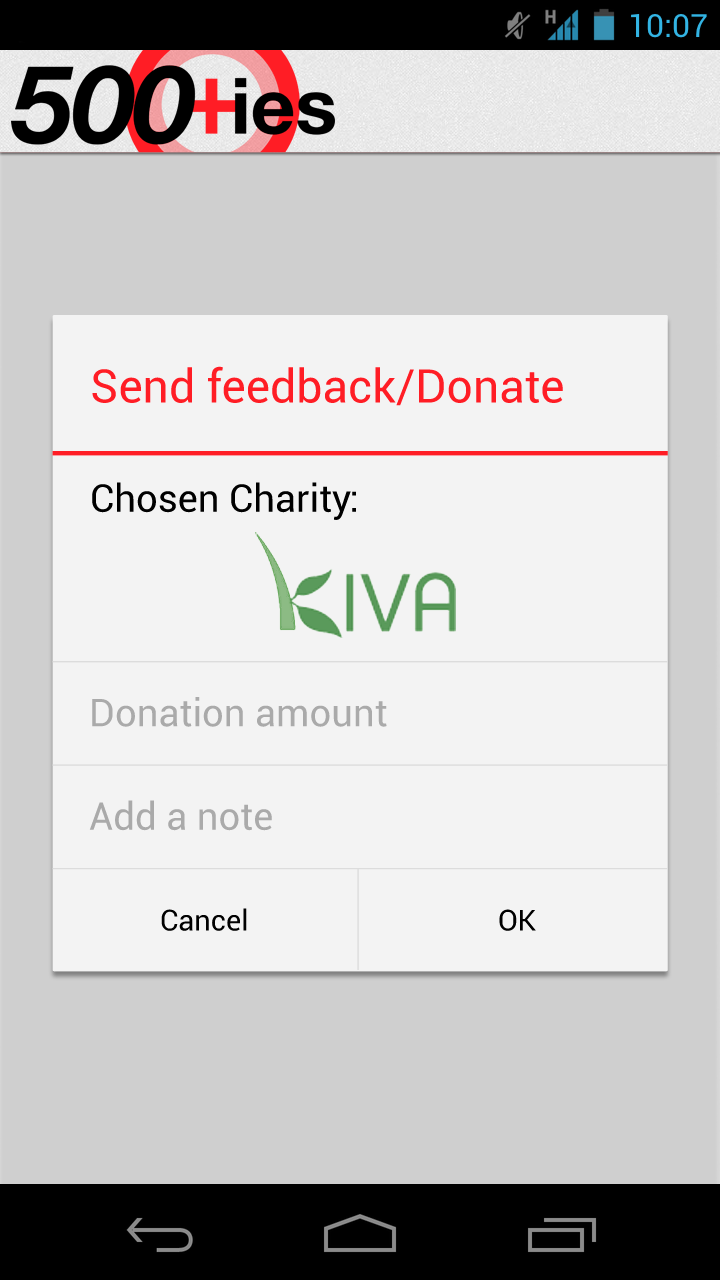
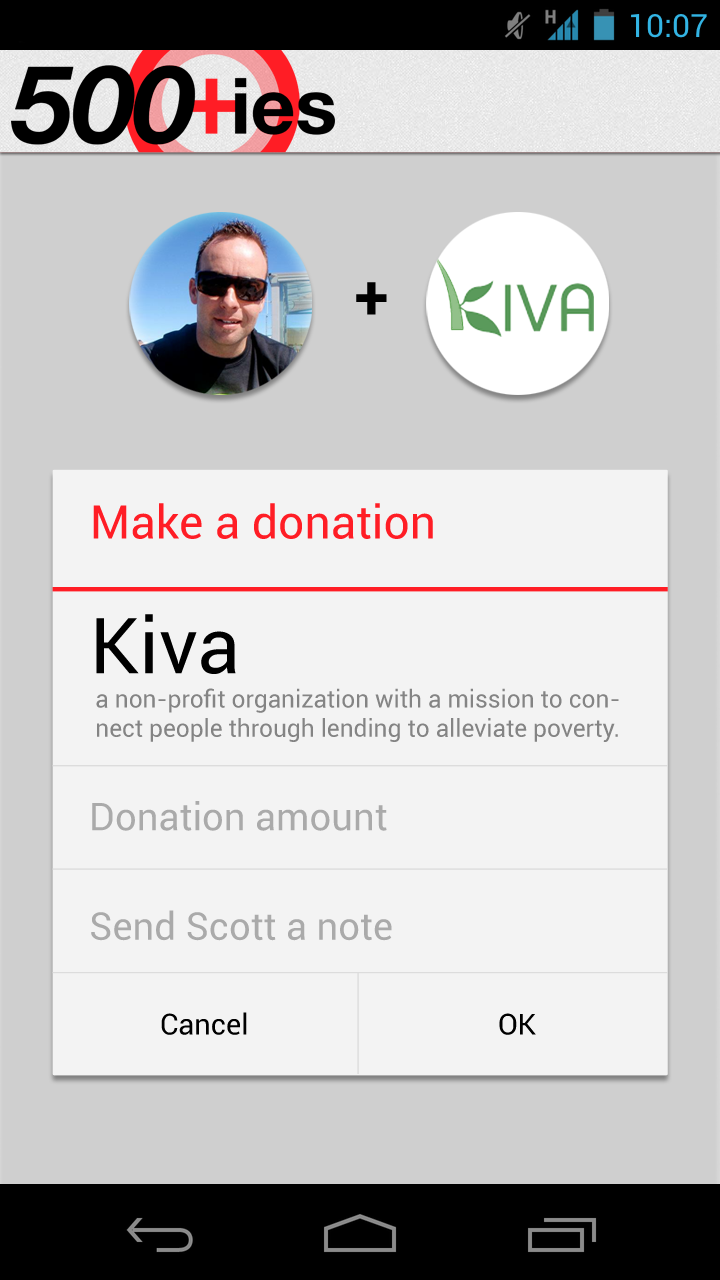
mockup designs update

Changed region(s): [[0.0611, 0.1562, 0.9472, 0.5938], [0.0611, 0.6875, 0.9472, 0.8438], [0.1222, 0.625, 0.55, 0.6562]]

diff --git a/server/public/mockup/feedback2.html b/server/public/mockup/feedback2.html
@@ -3,10 +3,10 @@
 		<link rel="stylesheet" href="style.css">
 	</head>
 	<body>
-		<img src="feedback.png" usemap ="#register" />
+		<img src="feedback2.png" usemap ="#register" />
 
 		<map name="register">
-		  <area shape="rect" coords="207,1042,512,1118" href="feedback2.html" />
+		  <area shape="rect" coords="207,1042,512,1118" href="sun.htm" />
 		</map>		
 	</body>
 

diff --git a/server/public/mockup/profile2.html b/server/public/mockup/profile2.html
@@ -6,7 +6,7 @@
 		<img src="profile2.png" usemap ="#register" />
 
 		<map name="register">
-		  <area shape="rect" coords="10,484,675,560" href="introduction.html" />
+		  <area shape="rect" coords="480,559,680,621" href="introduction.html" />
 		</map>		
 	</body>
 
